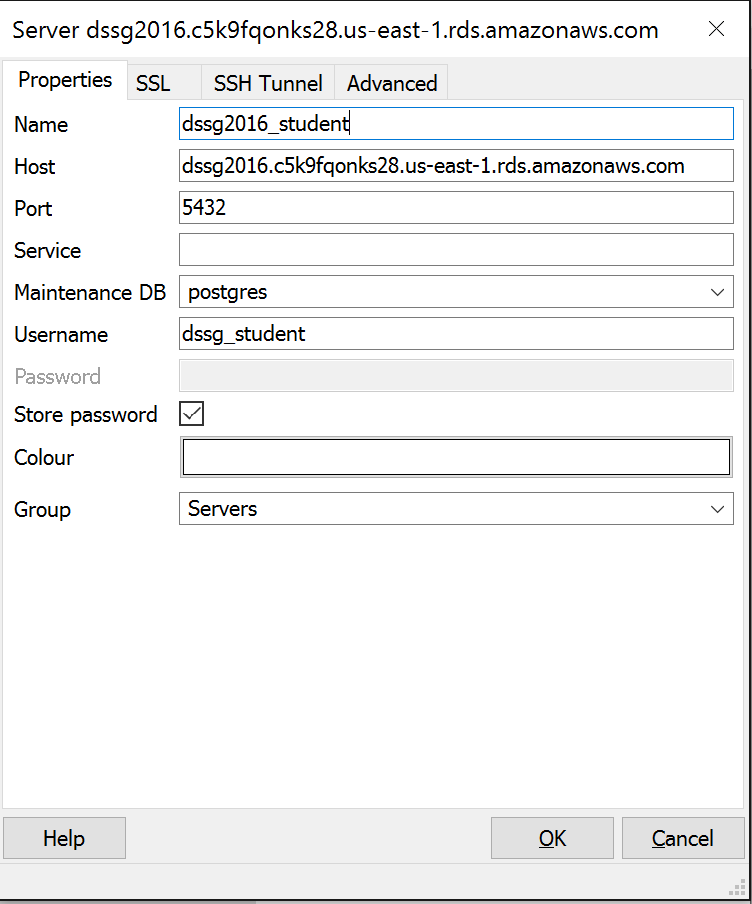
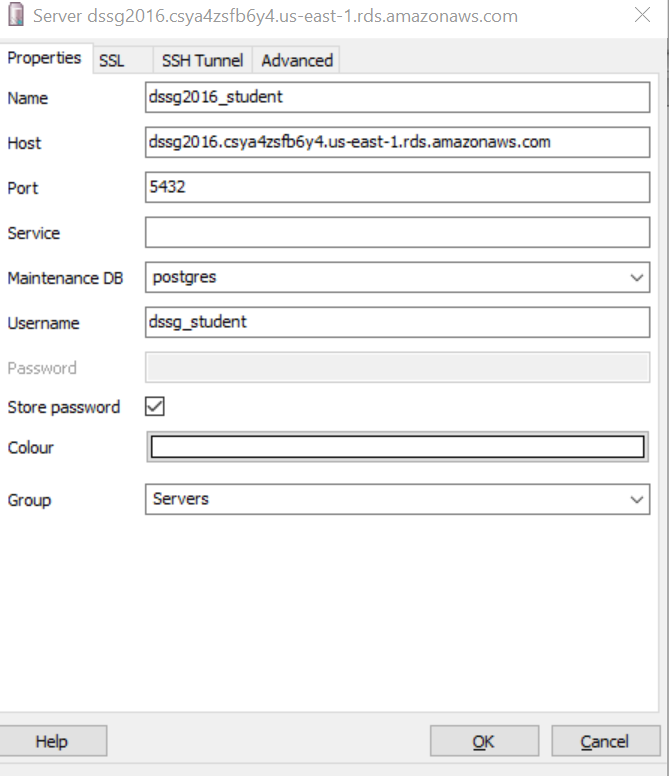
added exercise 5

Changed region(s): [[0.0, 0.0, 1.0, 1.0], [0.0, 0.6186, 0.0897, 0.6804]]

diff --git a/Exercise5.md b/Exercise5.md
@@ -1,0 +1,91 @@
+# Exercise 5
+
+In this exercise we will explore spatial relationships with our dataset.
+
+### Question to answer:
+What is the most common crime within 1 km of my house?
+
+#### Step 1: Find the coordinates of your house (or some other feature in the Seattle region).
+
+* HINT: you can use google maps to find the latitude and longitude of any map location, e.g.:
+
+<img src = "images/googlemaps.png" width = 600>
+
+#### Step 2: Build the SQL query. You will need to nest 4 different functions to do this:
+
+* ST_MakePoint: to make a vector point geometry from your lat/long coordinate pair
+* ST_SetSRID: to tell the database which SRID your lat/long pair conforms to
+* ST_Transform: to transform your point geomtery to a projected coordinate system
+* ST_Distance: to calculate the distance between all the geometries in the database and your single point
+
+Create the point geometry using a geographic coordinate system (SRID = 4326). Transform the coordinates to UTM Zone 10 (SRID = 3717). You will need a WHERE clause to check if the distance between your point and all "geom_utm".
+
+### Additional tasks, if you have time! 
+
+#### Plotting your data on a map:
+
+* download the [QGIS](http://qgis.org/en/site/) software
+* run the software and connect to the database:
+   * click on "layer/add PostGIS layers"
+   * click on the "new" button and enter the connection information (similar to what you did in exercise 1 for the pgadmin software)
+   * click on the "connect" button
+   * you should now see the database tables we've been working with. Add one of these and it should appear on the map.
+* things to explore next:
+   * change the symbology of the points, coloring them by a specific attribute so that the colors illustrate grouping in the data
+   * add a background map "web\QuickMapServices\OSM"
+   * issue the SQL query you built above to select only those points within 1 km of a point
+     * click on "database\DBmanager" and you will see the database to which you have already connected.
+     * issue a SQL query in the SQL command window (blue arrow in this screen capture):
+<img src = "images/dbmanager.png" width = 600>
+   * try to make a map like this!
+<br>
+<img src = "images/crimeradius.png" width = 300>
+<br>
+ 
+#### Interfacing with the database from Python:
+
+We will use [pandas](pandas.pydata.org) which is a data analysis toolkit that happens to have some very simple methods for moving data to and from a database. The datbase connections are handled through pandas using [sqlalchemy](www.sqlalchemy.org).
+
+```Python
+import pandas as pd
+from sqlalchemy import create_engine
+import sqlalchemy.types as types
+```
+Our next step is to pass some database connection information to pandas/sqlalchemy so that we can establish a connection. We create a database "engine" object that is then used in subsequent operations as a portal to/from the database.
+
+```Python
+host = 'dssg2016.csya4zsfb6y4.us-east-1.rds.amazonaws.com'
+user = 'dssg_student'
+password = 'dssg2016'
+port = '5432'
+dbname = 'dssg2016'
+engine = create_engine('postgresql://' + user + ':' + password + '@' + host + ':' + port + '/' + dbname)
+```
+Now we can issue a query to the database as follows:
+
+```Python
+df =pd.read_sql('SELECT * FROM seattlecrimeincidents LIMIT 100', engine)
+```
+
+#### Interfacing with the database from R:
+
+We will use the R package [PostgreSQL](https://cran.r-project.org/web/packages/RPostgreSQL/index.html).
+
+```R
+install.packages("PostgreSQL")
+library(RPostgreSQL)
+```
+
+We can execute a query in the following way:
+
+```R
+drv <- dbDriver("PostgreSQL")
+con <- d:Connect(drv, host="dssg2016.csya4zsfb6y4.us-east-1.rds.amazonaws.com", user="dssg_student", password="dssg2016", dbname="dssg2016", port="5432")
+rs <- dbSendQuery(con, "select * from seattlecrimeincidents limit 100"); 
+df <- fetch(rs)
+```
+
+#### Useful Resources:
+* fiddle with SQL: [sqlfiddle](http://sqlfiddle.com/)
+* check out [SQLShare](https://sqlshare.escience.washington.edu/sqlshare/) - databases made easy (you can find SeattleCrimeIncidents and census datasets already there)
+* querying urban data sets with [Socrata Query Language (SoQL)](https://dev.socrata.com/docs/queries/)

diff --git a/Exercise1.md b/Exercise1.md
@@ -22,7 +22,7 @@ Start pgAdmin.
 <img src="images/toolbar.png" width = "400" border = "10">
 <br><br><br><br>
 2. fill in the connection information. 
-* The host name is: dssg2016.c5k9fqonks28.us-east-1.rds.amazonaws.com 
+* The host name is: dssg2016.csya4zsfb6y4.us-east-1.rds.amazonaws.com
 * The port is: 5432
 * The username is: dssg_student
 * The password is: dssg2016
@@ -38,7 +38,7 @@ Start pgAdmin.
 <img src="images/fullView.png" width = "600" border = "1">
 <br><br><br><br>
 5. Most of the pgadmin interface contains information on the structure of the data tables (e.g. column names), but where are the actual data? Let's take a look: 
-* Right click _Valentina, how to do this on a MAC??_ on the "seattlecrimeincidents" table, choose "View Data" and then "View Top 100 Rows" or "View Bottom 100 Rows" (Note: don't choose "View All Rows" because this will take a long time to load given the large size of the table).
+* Right click on the "seattlecrimeincidents" table, choose "View Data" and then "View Top 100 Rows" or "View Bottom 100 Rows" (Note: don't choose "View All Rows" because this will take a long time to load given the large size of the table).
 <br>
 <img src="images/viewingData.png" width = "400" border = "10">
 <br>
